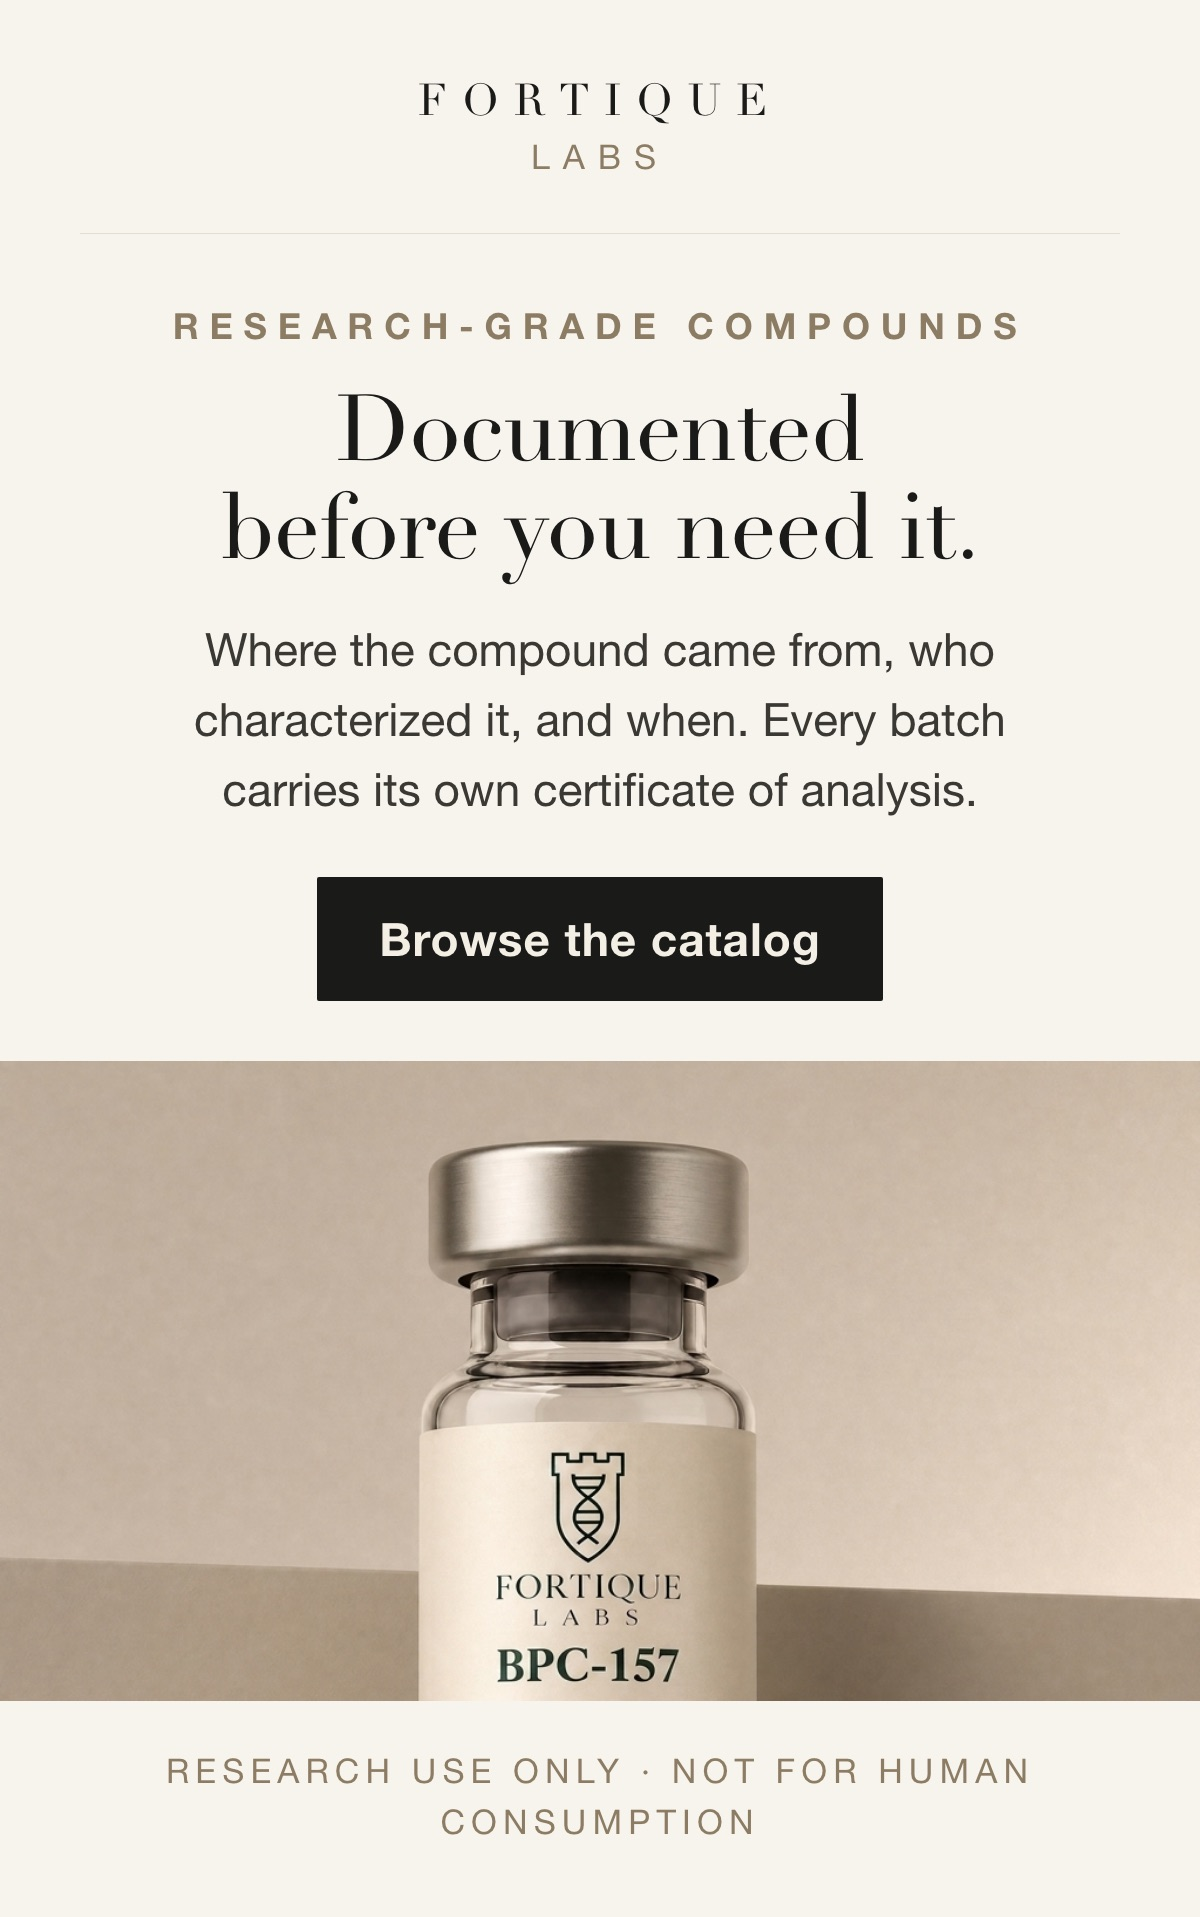
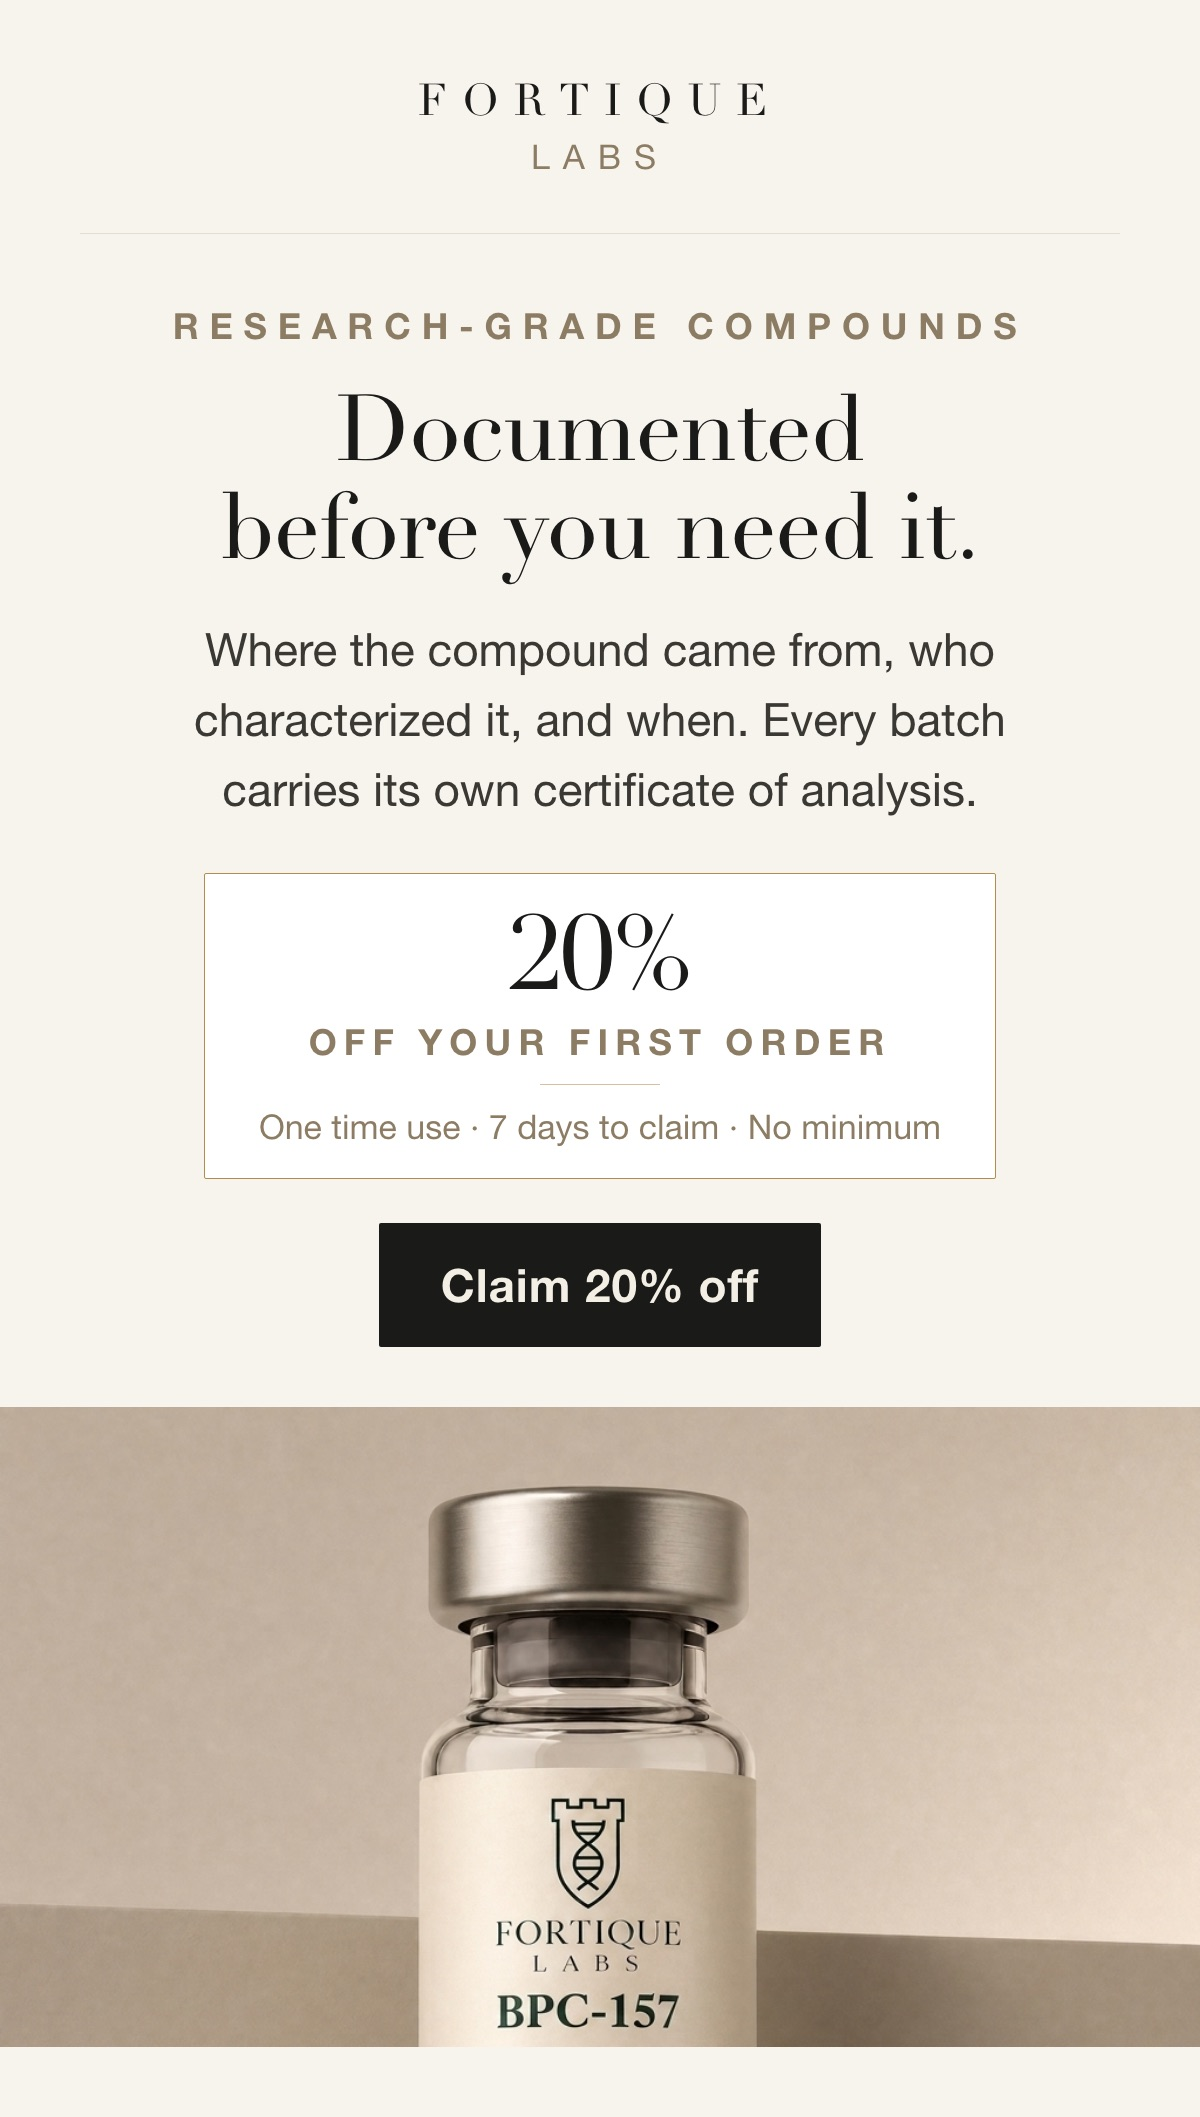
fortique v2: welcome 1 reads as one email, plus the 20 percent badge
3qgu2jte found it while placing the set: three self-contained panels stacked
in welcome 1 repeat the wordmark and the legal strip three times, which reads
as three emails pasted together. Masthead and legal are now POSITIONAL:
01a opens with the masthead and no legal, 01b wears neither, 01c closes with
the legal strip. Gate check 7 is now per-email and asserts placement.

Offer badge added to the welcome hero: 20 percent off first order, one time
use, 7 days, no minimum. THE CODE IS NEVER DRAWN, it is unique per recipient
and lives as live text in the email. Gate check 12 bans a code, or even the
word, from every graphic.

diff --git a/fortique-email-v2.html b/fortique-email-v2.html
@@ -106,7 +106,7 @@ footer{margin-top:52px;border-top:1px solid var(--rule);padding-top:18px;
       <div class="views">
         <div class="view">
           <div class="cap">On a phone, 375px, actual size</div>
-          <div class="phone"><img src="fortique-v2/01a-welcome-hero.jpg" alt="Fortique Labs. Research-grade compounds, documented before you need it. Every batch carries its own certificate of analysis. Browse the catalog."></div>
+          <div class="phone"><img src="fortique-v2/01a-welcome-hero.jpg" alt="Fortique Labs. Research-grade compounds, documented before you need it. Every batch carries its own certificate of analysis. 20% off your first order, one time use, 7 days to claim, no minimum. Your single-use code is in the text below this image. Claim 20% off."></div>
         </div>
         <div class="view">
           <div class="cap">Desktop, 600px</div>
